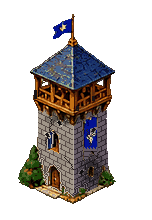
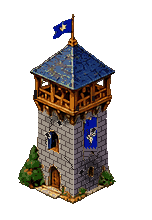
fix: bell tower without arch frames; its ruins are the approved town tower ruins scaled to its plot

diff --git a/tools/dev/ref_convert/finish_bell.py b/tools/dev/ref_convert/finish_bell.py
@@ -12,6 +12,7 @@ L_BRICK, L_MORT = (160, 150, 137), (92, 79, 74)
 R_BRICK, R_MORT = (101, 90, 101), (48, 40, 47)
 ARCH_L, ARCH_R = (196, 186, 170), (128, 116, 124)
 SOOT = (40, 32, 30)
+SLATE_C, BEAM_C = (52, 72, 132), (128, 84, 40)
 HOLE = (24, 20, 22)
 
 a = np.array(Image.open(S + "bell_retex.png").convert("RGBA"))
@@ -57,7 +58,7 @@ for pts in blobs(op & doorish, 30):                     # the door: a dark/wood 
     if np.mean(xs) < AX and max(ys) > AY - 40 and min(ys) > AY - Z_TOP:
         openings.append(pts)
 out = a.copy()
-for pts in openings:
+for pts in []:   # no arch frames (user review): the openings stay as in the reference
     m = np.zeros((h, w), bool)
     for y, x in pts:
         m[y, x] = True
@@ -130,42 +131,59 @@ for _ in range(5):
                 dmg[y, x, :3] = HOLE
 Image.fromarray(dmg, "RGBA").save(D + "damaged.png")
 
-# ---- 3. ruins: a jagged wall stump with rubble, fallen slates and beams round its foot ----------------------------
-STUMP = 28
-ru = intact.copy()
-ru[..., 3] = 0
+# ---- 3. ruins: a stump broken along whole brick courses, in a smooth mound of whole bricks ------------------------
+ROW, BRICK = 5, 8
+STUMP = 30
+ru = np.zeros_like(intact)
 for x in range(w):
-    top = int(base_y(x) - STUMP - (rng.randint(0, 10) if abs(x - AX) < HALF - 2 else 0))
     if abs(x - AX) >= HALF:
         continue
+    u = abs(x - AX)
+    course = int(u // BRICK)
+    step = (3 - (course * 5 + (1 if x < AX else 2)) % 4) * ROW      # 0..15 px, in whole courses
+    top = int(base_y(x) - STUMP - step)
     for y in range(max(top, 0), h):
         if intact[y, x, 3] > 0 and y <= base_y(x) + 6:
             ru[y, x] = dmg[y, x]
-    # broken top edge: a dark line with lighter broken brick under it
-    if 0 <= top < h and ru[top, x, 3] > 0:
-        ru[top, x, :3] = SOOT
-        if top + 1 < h:
-            ru[top + 1, x, :3] = ARCH_L if x < AX else ARCH_R
-# rubble: little stone blocks (2x2 / 3x2) piled in a band round the foot, plus slates and beams
-STONES = [L_BRICK, (140, 130, 118), R_BRICK, (120, 110, 104), ARCH_L]
-SLATE = [(44, 62, 120), (62, 86, 150)]
-BEAM = [(110, 70, 34), (146, 96, 46)]
-for _ in range(1100):
-    # a heap inside the plot's diamond, highest against the stump and spilling a little past the front corner
-    gx = rng.uniform(-1.0, 1.0)
-    x = int(AX + gx * (HALF - 2))
-    yb = base_y(x)
-    depth = rng.uniform(0, 1)
-    y = int(yb + 4 - depth * 9 - rng.uniform(0, 20) * (1 - abs(gx) ** 2) * (1 - depth) - rng.uniform(0, 5))
-    if not (0 <= x < w - 3 and 0 <= y < h - 3):
-        continue
-    r = rng.random()
-    col = SLATE[rng.randrange(2)] if r < 0.12 else (BEAM[rng.randrange(2)] if r < 0.2 else STONES[rng.randrange(5)])
-    bw, bh = (3, 1) if r < 0.2 else (rng.choice((2, 3)), 2)
-    for dy in range(bh):
-        for dx in range(bw):
-            ru[y + dy, x + dx, :3] = col if dy == 0 else tuple(int(c * 0.7) for c in col)
-            ru[y + dy, x + dx, 3] = 255
+# no banner scraps on the stump: blue pixels become the wall's brick colour
+rr = ru[..., :3].astype(int)
+bl = (ru[..., 3] > 0) & (rr[..., 2] > rr[..., 0] + 30) & (rr[..., 2] > rr[..., 1] + 15)
+for y, x in zip(*np.nonzero(bl)):
+    ru[y, x, :3] = L_BRICK if x < AX else R_BRICK
+# the heap: small iso stone blocks (lit top, lit left side, shaded right side, dark outline), stacked into a
+# rounded pile against the stump's foot, drawn back to front
+TOPC, LEFTC, RIGHTC = (176, 168, 156), (150, 140, 128), (98, 88, 98)
+OUTC = (40, 32, 34)
+blocks = []
+for _ in range(90):
+    gx = rng.uniform(-0.95, 0.95)
+    x = AX + gx * (HALF - 4)
+    hgt = 16 * (1 - gx * gx) ** 0.8
+    lift = rng.uniform(0, hgt)
+    y = base_y(x) + 4 - lift
+    blocks.append((y, x, rng.choice((2, 3, 3, 4))))
+blocks.sort()
+for y, x, s_ in blocks:
+    x, y = int(x), int(y)
+    # top face: a small diamond; sides below it
+    for dy in range(-s_ // 2, s_ // 2 + 1):
+        half = s_ - abs(dy) * 2
+        for dx in range(-half, half + 1):
+            yy, xx = y + dy, x + dx
+            if 0 <= yy < h and 0 <= xx < w:
+                ru[yy, xx, :3] = TOPC; ru[yy, xx, 3] = 255
+    for dz in range(1, s_ + 1):
+        for dx in range(-s_, s_ + 1):
+            yy = y + s_ // 2 + dz - (abs(dx) // 2)
+            xx = x + dx
+            if 0 <= yy < h and 0 <= xx < w:
+                ru[yy, xx, :3] = LEFTC if dx < 0 else RIGHTC; ru[yy, xx, 3] = 255
+    # outline this block against what is behind it
+    for dy in range(-s_ // 2 - 1, s_ + s_ // 2 + 2):
+        for dx in (-s_ - 1, s_ + 1):
+            yy, xx = y + dy - (abs(dx) // 2 if dy > s_ // 2 else 0), x + dx
+            if 0 <= yy < h and 0 <= xx < w and ru[yy, xx, 3] > 0:
+                ru[yy, xx, :3] = OUTC
 # dark outline round the ruins' silhouette, like every sprite
 al = ru[..., 3] > 0
 p = np.pad(al, 1)

diff --git a/tools/dev/ref_convert/bell_ruins_from_tower.py b/tools/dev/ref_convert/bell_ruins_from_tower.py
@@ -1,0 +1,28 @@
+"""The bell tower's ruins: the approved town_tower ruins (PixelLab, footprint 1.6) scaled to the bell tower's 1.1 plot
+with a premultiplied Lanczos downscale, snapped back to the source's 32-colour palette, outlined, and placed so the
+two anchors meet. Run after finish_bell.py (which writes intact and damaged; its own ruins were rejected as too rough).
+Usage (from the project root): python tools/dev/ref_convert/bell_ruins_from_tower.py
+"""
+import numpy as np
+from PIL import Image
+
+D = "assets/pixellab/buildings/"
+src = Image.open(D + "town_tower/ruins.png").convert("RGBA")
+k = 1.1 / 1.6
+nw, nh = round(src.width * k), round(src.height * k)
+sm = src.convert("RGBa").resize((nw, nh), Image.LANCZOS).convert("RGBA")
+al = np.array(sm.getchannel("A")) >= 120
+pal = src.convert("RGB").quantize(colors=32, method=Image.Quantize.MEDIANCUT, dither=Image.Dither.NONE)
+q = sm.convert("RGB").quantize(palette=pal, dither=Image.Dither.NONE).convert("RGB")
+a = np.zeros((nh, nw, 4), np.uint8)
+a[..., :3] = np.array(q)
+a[..., 3] = np.where(al, 255, 0)
+p = np.pad(al, 1)
+edge = al & ~(p[:-2, 1:-1] & p[2:, 1:-1] & p[1:-1, :-2] & p[1:-1, 2:])
+a[edge, :3] = (a[edge, :3] * 0.4 + np.array([34, 26, 24]) * 0.6).astype(np.uint8)
+# town_tower's anchor (60, 172), scaled, lands on the bell tower's anchor (73, 200) on its 152 x 220 canvas
+canvas = np.zeros((220, 152, 4), np.uint8)
+ox, oy = round(73 - 60 * k), round(200 - 172 * k)
+canvas[oy:oy + nh, ox:ox + nw] = a
+Image.fromarray(canvas, "RGBA").save(D + "bell_tower/ruins.png")
+print("ruins placed at", ox, oy, "size", nw, nh)
